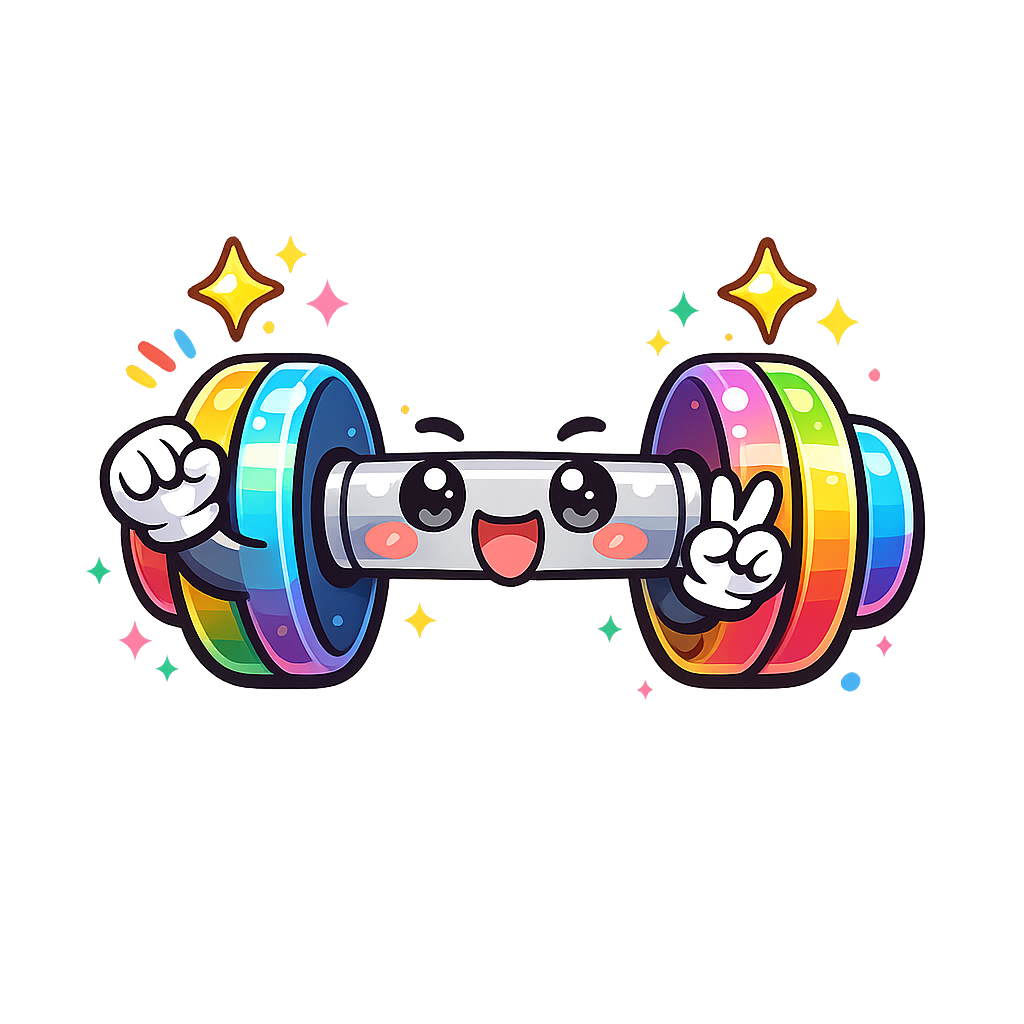
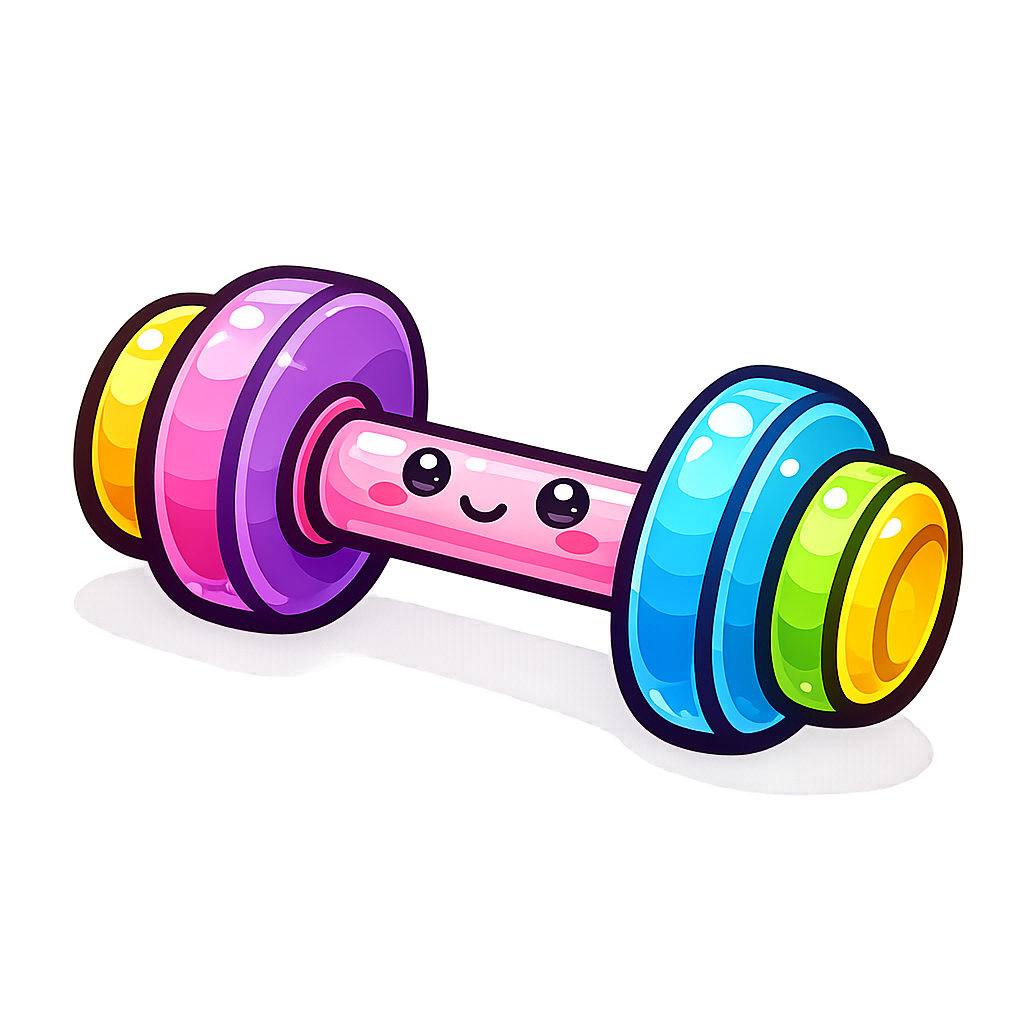
Reward the invite loop: free week of Pro for both partners on pairing
- profileStore: pairingBonusUntil + grantPairingBonus (never shortens an active
  bonus) + selectPairingBonusActive
- proStore: useEffectivePro() = real entitlement OR active bonus; gates now read
  it so the reward actually unlocks Pro depth
- useCouple: grants 7-day bonus to BOTH partners the moment a bond fully pairs
- couple-invite: 🎁 banner tells them they unlocked Pro
- 3 tests for the bonus selector

Makes the couple/duel virality compound — inviting now pays off for both sides.

diff --git a/app/modal/couple-invite.tsx b/app/modal/couple-invite.tsx
@@ -13,7 +13,7 @@ import { cancelStreakReminder, scheduleStreakReminder } from '@/lib/notification
 import { createCouple, joinCoupleByCode, leaveCouple, nudgePartner } from '@/services/coupleService';
 import { useAuthStore } from '@/state/authStore';
 import { useCouple } from '@/state/useCouple';
-import { useProfileStore } from '@/state/profileStore';
+import { selectPairingBonusActive, useProfileStore } from '@/state/profileStore';
 import { font, text } from '@/theme/typography';
 import { gradients, palette, radius, shadow } from '@/theme/tokens';
 
@@ -31,6 +31,7 @@ export default function CoupleInviteScreen() {
   const cloudConfigured = useAuthStore((s) => s.configured);
   const displayName = useProfileStore((s) => s.displayName);
   const avatarUri = useProfileStore((s) => s.avatarUri);
+  const bonusActive = useProfileStore(selectPairingBonusActive);
 
   const router = useRouter();
   const { couple, paired, partner, streak, combined, code, loading, atRisk, level, badges } =
@@ -155,6 +156,15 @@ export default function CoupleInviteScreen() {
       {/* ---------------- Paired ---------------- */}
       {!loading && paired && partner ? (
         <>
+          {bonusActive ? (
+            <View style={styles.bonusBanner}>
+              <Text style={{ fontSize: 18 }}>🎁</Text>
+              <Text style={styles.bonusText}>
+                You both unlocked a free week of Pro — the full library and programmes are on.
+              </Text>
+            </View>
+          ) : null}
+
           <LinearGradient colors={gradients.brandStrong} style={[styles.pairedCard, shadow.brand]}>
             <Text style={styles.pairedEyebrow}>YOU'RE PAIRED WITH</Text>
             <View style={styles.pairedRow}>
@@ -409,6 +419,18 @@ const styles = StyleSheet.create({
     alignItems: 'center',
     justifyContent: 'center',
   },
+  bonusBanner: {
+    flexDirection: 'row',
+    alignItems: 'center',
+    gap: 10,
+    backgroundColor: palette.amber50,
+    borderWidth: 1,
+    borderColor: '#fcd34d',
+    borderRadius: radius['2xl'],
+    padding: 14,
+    marginBottom: 14,
+  },
+  bonusText: { ...font('bold', 12.5, { color: palette.amber900 }), flex: 1, lineHeight: 17 },
   pairedCard: { borderRadius: radius['4xl'], padding: 22, gap: 16 },
   levelBlock: { gap: 6 },
   levelHeader: { flexDirection: 'row', justifyContent: 'space-between', alignItems: 'flex-end' },

diff --git a/src/state/profileStore.ts b/src/state/profileStore.ts
@@ -51,6 +51,13 @@ export interface ProfileState {
   personalBests: Record<ExerciseId, number>;
   /** The active training programme, or null when not enrolled. */
   programme: ProgrammeProgress | null;
+  /**
+   * Epoch ms until which a locally-granted Pro bonus is active (0 = none). Given
+   * to both partners when a couple pairs — rewarding the invite loop and seeding
+   * a Pro trial that can convert. Never overrides a *real* RevenueCat entitlement;
+   * it's OR'd in as a temporary grant.
+   */
+  pairingBonusUntil: number;
 
   completeOnboarding: (input: { username: string; weeklyGoal: number; avatarUri: string | null }) => void;
   setUsername: (username: string) => void;
@@ -61,6 +68,8 @@ export interface ProfileState {
   startProgramme: (programmeId: string) => void;
   /** Leave the current programme. */
   leaveProgramme: () => void;
+  /** Grant a Pro bonus for `days` from now (idempotent — never shortens an active one). */
+  grantPairingBonus: (days: number) => void;
   reset: () => void;
 }
 
@@ -78,6 +87,7 @@ const initialState = {
     (Object.keys(EXERCISES) as ExerciseId[]).map((id) => [id, 0]),
   ) as Record<ExerciseId, number>,
   programme: null as ProgrammeProgress | null,
+  pairingBonusUntil: 0,
 };
 
 export const useProfileStore = create<ProfileState>()(
@@ -129,6 +139,13 @@ export const useProfileStore = create<ProfileState>()(
       startProgramme: (programmeId) => set({ programme: { programmeId, completedDays: 0 } }),
       leaveProgramme: () => set({ programme: null }),
 
+      grantPairingBonus: (days) =>
+        set((state) => {
+          const proposed = Date.now() + days * 24 * 60 * 60 * 1000;
+          // Never shorten an already-active bonus — extend to the later expiry.
+          return { pairingBonusUntil: Math.max(state.pairingBonusUntil, proposed) };
+        }),
+
       reset: () => set({ ...initialState }),
     }),
     {
@@ -178,6 +195,14 @@ export function selectStreak(state: Pick<ProfileState, 'sessions'>, today = dayK
     state.sessions.map((s) => s.day),
     today,
   );
+}
+
+/** Whether the locally-granted pairing Pro bonus is still active. */
+export function selectPairingBonusActive(
+  state: Pick<ProfileState, 'pairingBonusUntil'>,
+  now = Date.now(),
+): boolean {
+  return state.pairingBonusUntil > now;
 }
 
 /** Distinct days trained this week, for the "3 / 4 days" tile. */

diff --git a/src/state/useCouple.ts b/src/state/useCouple.ts
@@ -32,6 +32,10 @@ import { dayKey } from '@/domain/progression';
 import { presentNudge } from '@/lib/notifications';
 import { watchMyCouple } from '@/services/coupleService';
 import { useAuthStore } from '@/state/authStore';
+import { useProfileStore } from '@/state/profileStore';
+
+/** Free Pro days granted to both partners when a couple pairs — the invite reward. */
+const PAIRING_BONUS_DAYS = 7;
 
 export interface CoupleView {
   /** The raw bond, or null when this athlete has not paired with anyone. */
@@ -85,6 +89,8 @@ export function useCouple(): CoupleView {
    */
   const seenNudgeAt = useRef<number | null>(null);
   const seededNudge = useRef(false);
+  /** Whether this device has already granted the pairing bonus for this bond. */
+  const rewardedPairing = useRef(false);
 
   useEffect(() => {
     if (!uid) {
@@ -96,6 +102,18 @@ export function useCouple(): CoupleView {
     const unsubscribe = watchMyCouple(uid, (next) => {
       setCouple(next);
       setLoading(false);
+
+      // Reward the invite loop: the moment a bond is fully paired (both seats
+      // filled), grant BOTH partners a free week of Pro. Each device sees the
+      // transition on its own snapshot, so both get it. Guarded by a ref so it
+      // fires once per app run, and `grantPairingBonus` never shortens an active
+      // bonus, so re-pairing can't stack repeatedly within a session.
+      const fullyPaired = !!next && next.memberUids.length >= 2 && next.pending === false;
+      if (fullyPaired && !rewardedPairing.current) {
+        rewardedPairing.current = true;
+        useProfileStore.getState().grantPairingBonus(PAIRING_BONUS_DAYS);
+      }
+      if (!fullyPaired) rewardedPairing.current = false;
 
       // Surface a nudge the *partner* sent, once. The first snapshot only seeds
       // the baseline, so a poke from yesterday doesn't fire on every launch.

diff --git a/src/state/proStore.ts b/src/state/proStore.ts
@@ -5,6 +5,7 @@ import {
   fetchIsPro,
   watchCustomerInfo,
 } from '@/services/purchases';
+import { selectPairingBonusActive, useProfileStore } from '@/state/profileStore';
 
 /**
  * The athlete's Pro entitlement, kept live.
@@ -59,7 +60,19 @@ export const useProStore = create<ProState>()((set) => ({
   setPro: (isPro) => set({ isPro }),
 }));
 
-/** Convenience selector for the common "am I pro?" read. */
+/**
+ * The effective Pro state: a real RevenueCat entitlement OR an active local
+ * pairing bonus. Gates should read this so the free-Pro-week reward for pairing
+ * actually unlocks the paid depth. The real entitlement is authoritative — the
+ * bonus only ever *adds* access, never removes it.
+ */
+export function useEffectivePro(): boolean {
+  const isPro = useProStore((s) => s.isPro);
+  const bonusActive = useProfileStore(selectPairingBonusActive);
+  return isPro || bonusActive;
+}
+
+/** Convenience selector for the common "am I pro?" read (includes the bonus). */
 export function useIsPro(): boolean {
-  return useProStore((s) => s.isPro);
+  return useEffectivePro();
 }

diff --git a/src/components/ProgrammeCard.tsx b/src/components/ProgrammeCard.tsx
@@ -7,7 +7,7 @@ import { PUSHUP_LADDER } from '@/domain/programme';
 import { getExercise } from '@/vision/exercises';
 import { isPurchasesConfigured } from '@/services/purchases';
 import { selectProgramme, useProfileStore } from '@/state/profileStore';
-import { useProStore } from '@/state/proStore';
+import { useEffectivePro } from '@/state/proStore';
 import { font } from '@/theme/typography';
 import { gradients, palette, radius, shadow } from '@/theme/tokens';
 
@@ -23,7 +23,7 @@ export function ProgrammeCard() {
   const router = useRouter();
   const state = useProfileStore(selectProgramme);
   const startProgramme = useProfileStore((s) => s.startProgramme);
-  const isPro = useProStore((s) => s.isPro);
+  const isPro = useEffectivePro();
 
   // Guided programmes are the flagship Pro offering. A non-Pro athlete tapping
   // "start" gets the upgrade invite instead of enrolling; a Pro enrols directly.

diff --git a/app/session/index.tsx b/app/session/index.tsx
@@ -18,7 +18,7 @@ import { OpponentPacer, getOpponent } from '@/domain/opponent';
 import { shouldPromptUpgrade } from '@/domain/paywallGate';
 import type { SessionMode } from '@/domain/progression';
 import { isPurchasesConfigured } from '@/services/purchases';
-import { useProStore } from '@/state/proStore';
+import { useEffectivePro, useProStore } from '@/state/proStore';
 import {
   lockHaptic,
   playCountSound,
@@ -99,7 +99,7 @@ export default function SessionScreen() {
    * whole-store subscription re-rendered this screen — and the HUD and overlay
    * beneath it — on every store write, including the per-frame pose updates.
    */
-  const isPro = useProStore((s) => s.isPro);
+  const isPro = useEffectivePro();
   const proReady = useProStore((s) => s.ready);
 
   const phase = useSessionStore((s) => s.phase);

diff --git a/src/state/__tests__/pairingBonus.test.ts b/src/state/__tests__/pairingBonus.test.ts
@@ -1,0 +1,18 @@
+import { selectPairingBonusActive } from '@/state/profileStore';
+
+describe('selectPairingBonusActive', () => {
+  const now = 1_000_000_000_000;
+
+  it('is inactive with no bonus', () => {
+    expect(selectPairingBonusActive({ pairingBonusUntil: 0 }, now)).toBe(false);
+  });
+
+  it('is active while the bonus is in the future', () => {
+    expect(selectPairingBonusActive({ pairingBonusUntil: now + 1 }, now)).toBe(true);
+  });
+
+  it('expires once the deadline passes', () => {
+    expect(selectPairingBonusActive({ pairingBonusUntil: now - 1 }, now)).toBe(false);
+    expect(selectPairingBonusActive({ pairingBonusUntil: now }, now)).toBe(false);
+  });
+});
